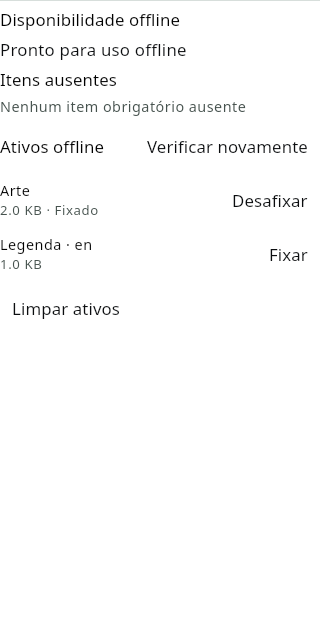
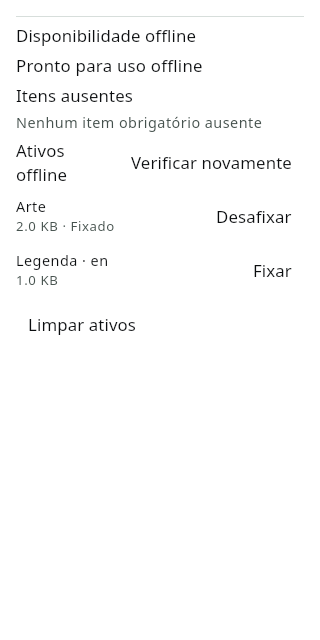
test: render opaque offline documentation captures

Changed region(s): [[0.0, 0.0, 0.9688, 0.5312], [0.7812, 0.375, 0.9688, 0.4375], [0.2812, 0.4062, 0.3438, 0.4375]]

diff --git a/desktopApp/src/test/kotlin/com/openyt/desktop/ui/OfflineReadinessUiTest.kt b/desktopApp/src/test/kotlin/com/openyt/desktop/ui/OfflineReadinessUiTest.kt
@@ -1,6 +1,10 @@
 package com.openyt.desktop.ui
 
+import androidx.compose.foundation.layout.fillMaxSize
+import androidx.compose.foundation.layout.padding
+import androidx.compose.material3.Surface
 import androidx.compose.runtime.CompositionLocalProvider
+import androidx.compose.ui.Modifier
 import androidx.compose.ui.geometry.Size
 import androidx.compose.ui.graphics.toAwtImage
 import androidx.compose.ui.test.ExperimentalTestApi
@@ -12,6 +16,7 @@ import androidx.compose.ui.test.onNodeWithText
 import androidx.compose.ui.test.performClick
 import androidx.compose.ui.test.runSkikoComposeUiTest
 import androidx.compose.ui.unit.Density
+import androidx.compose.ui.unit.dp
 import com.openyt.core.application.OfflineAssetView
 import com.openyt.core.application.OfflineLibraryState
 import com.openyt.core.application.OfflineStorageBreakdown
@@ -49,13 +54,16 @@ class OfflineReadinessUiTest(private val scenario: Scenario) {
         setContent {
             OpenYtTheme(darkTheme = scenario.dark) {
                 CompositionLocalProvider(LocalStrings provides scenario.strings) {
-                    OfflineReadinessCard(
-                        state = readyState(),
-                        onTogglePin = { asset, pinned -> toggled = asset.id to pinned },
-                        onCleanup = { cleaned = it },
-                        onAction = {},
-                        onRetry = {},
-                    )
+                    Surface(Modifier.fillMaxSize()) {
+                        OfflineReadinessCard(
+                            state = readyState(),
+                            onTogglePin = { asset, pinned -> toggled = asset.id to pinned },
+                            onCleanup = { cleaned = it },
+                            onAction = {},
+                            onRetry = {},
+                            modifier = Modifier.padding(16.dp),
+                        )
+                    }
                 }
             }
         }
@@ -76,7 +84,12 @@ class OfflineReadinessUiTest(private val scenario: Scenario) {
 
         val screenshot = File("build/ui-regressions/offline-${scenario.name}.png")
         screenshot.parentFile.mkdirs()
-        ImageIO.write(captureToImage().toAwtImage(), "png", screenshot)
+        val image = captureToImage().toAwtImage()
+        assertTrue(
+            image.getRGB(0, 0, image.width, image.height, null, 0, image.width).all { it ushr 24 == 255 },
+            "Documentation captures must be opaque so text stays readable on GitHub's light and dark backgrounds",
+        )
+        ImageIO.write(image, "png", screenshot)
     }
 
     @Test
@@ -88,13 +101,16 @@ class OfflineReadinessUiTest(private val scenario: Scenario) {
         setContent {
             OpenYtTheme(darkTheme = scenario.dark) {
                 CompositionLocalProvider(LocalStrings provides scenario.strings) {
-                    OfflineReadinessCard(
-                        state = incompleteState(),
-                        onTogglePin = { _, _ -> },
-                        onCleanup = {},
-                        onAction = { action = it },
-                        onRetry = {},
-                    )
+                    Surface(Modifier.fillMaxSize()) {
+                        OfflineReadinessCard(
+                            state = incompleteState(),
+                            onTogglePin = { _, _ -> },
+                            onCleanup = {},
+                            onAction = { action = it },
+                            onRetry = {},
+                            modifier = Modifier.padding(16.dp),
+                        )
+                    }
                 }
             }
         }
@@ -174,7 +190,7 @@ class OfflineReadinessUiTest(private val scenario: Scenario) {
         fun scenarios() = listOf(
             arrayOf(Scenario("phone-320-pt", Size(320f, 640f), 1.2f, false, PtBrStrings)),
             arrayOf(Scenario("phone-large-dark-pt", Size(360f, 640f), 1.6f, true, PtBrStrings)),
-            arrayOf(Scenario("desktop-en", Size(1024f, 700f), 1f, false, EnStrings)),
+            arrayOf(Scenario("desktop-en", Size(960f, 420f), 1f, false, EnStrings)),
         )
     }
 }

diff --git a/docs/assets/offline/README.md b/docs/assets/offline/README.md
@@ -1,0 +1,23 @@
+# Offline readiness capture provenance
+
+Generated by `OfflineReadinessUiTest` from the real shared Compose
+`OfflineReadinessCard` with deterministic fixture state. These images show the
+component and its actual controls, not a complete native application window.
+
+- `offline-desktop-en.png`: 960x420, English, light theme, normal text.
+- `offline-phone-320-pt.png`: 320x640, Portuguese, light theme, 120% text.
+- `offline-phone-large-dark-pt.png`: 360x640, Portuguese, dark theme, 160% text.
+
+The capture host supplies the theme's opaque Material surface and content colors,
+plus padding. The test checks every output pixel is opaque so GitHub's light or
+dark page background cannot change the appearance of the image. It also verifies
+readiness, pinning, cleanup confirmation/cancellation and missing-artwork recovery.
+
+To regenerate all three images:
+
+```bash
+env -u WAYLAND_DISPLAY -u XDG_SESSION_TYPE xvfb-run -a ./gradlew :desktopApp:test --tests '*OfflineReadinessUiTest' --console=plain
+```
+
+Outputs are written to `desktopApp/build/ui-regressions/offline-*.png`; copy the
+three reviewed files into this directory after the tests pass.

diff --git a/README.md b/README.md
@@ -128,6 +128,8 @@ The expansion adds profile previews and explicit offline readiness:
 
 ![Offline library readiness and local asset controls](docs/assets/offline/offline-desktop-en.png)
 
+[Offline capture details and mobile variants](docs/assets/offline/README.md).
+
 These expansion captures use the real shared Compose UI with deterministic test
 ports. See the [expansion validation ledger](docs/testing/NEXT_EXPANSION_VALIDATION.md)
 for native tests, emulator evidence and capability limits, and the
